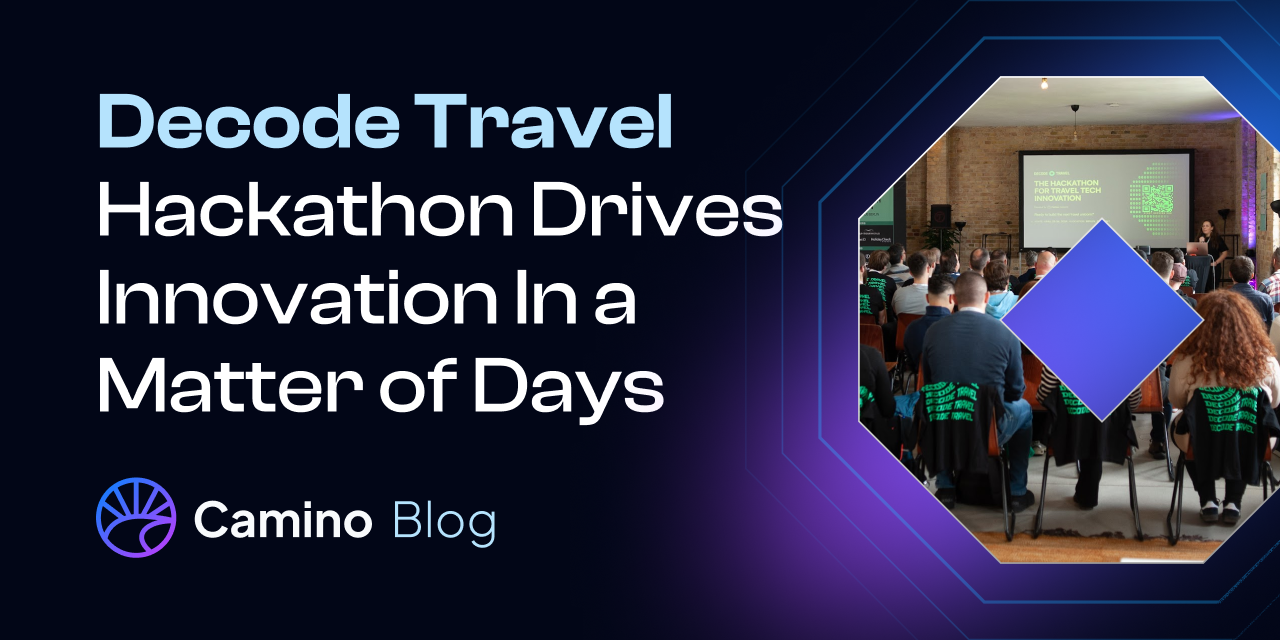
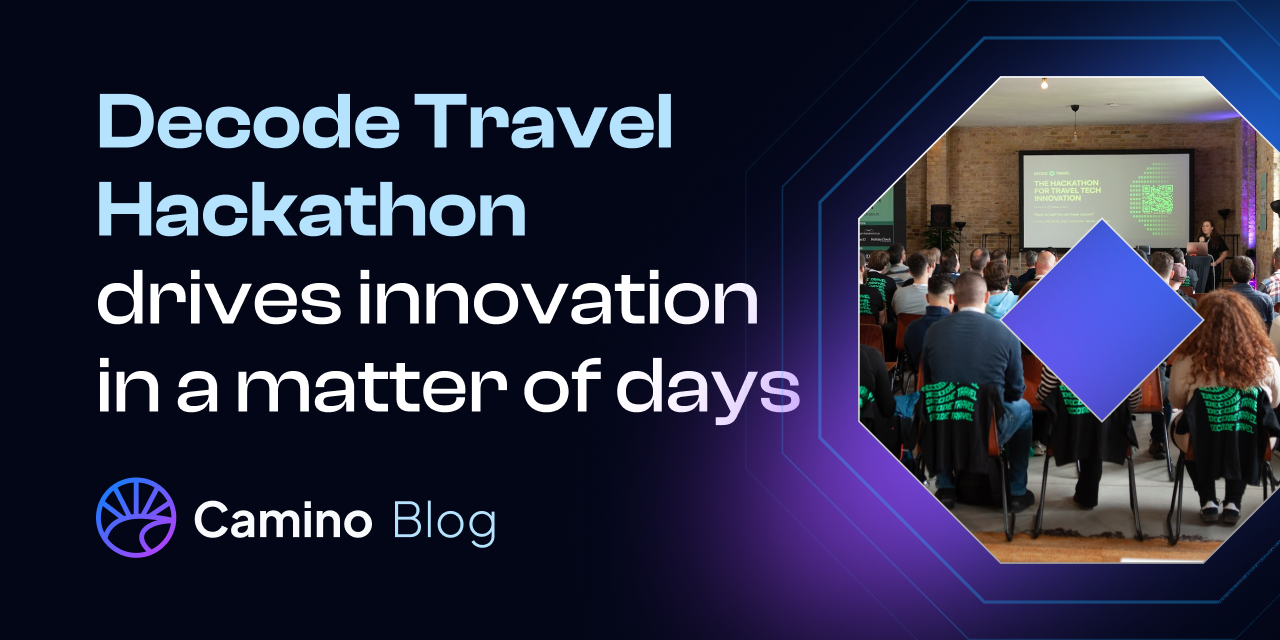
small typo fixes

Changed region(s): [[0.0625, 0.4062, 0.625, 0.6875], [0.0625, 0.2812, 0.625, 0.375]]

diff --git a/src/posts/decode-travel-recap.md b/src/posts/decode-travel-recap.md
@@ -5,7 +5,7 @@ layout:         blog_layout
 permalink:      decode-travel-recap/
 socialImage:    social-decode-recap
 heroImage:      "./src/static/images/decode-recap.png"
-postDate:       May 17, 2024
+postDate:       May 22, 2024
 order:          0
 ---
 
